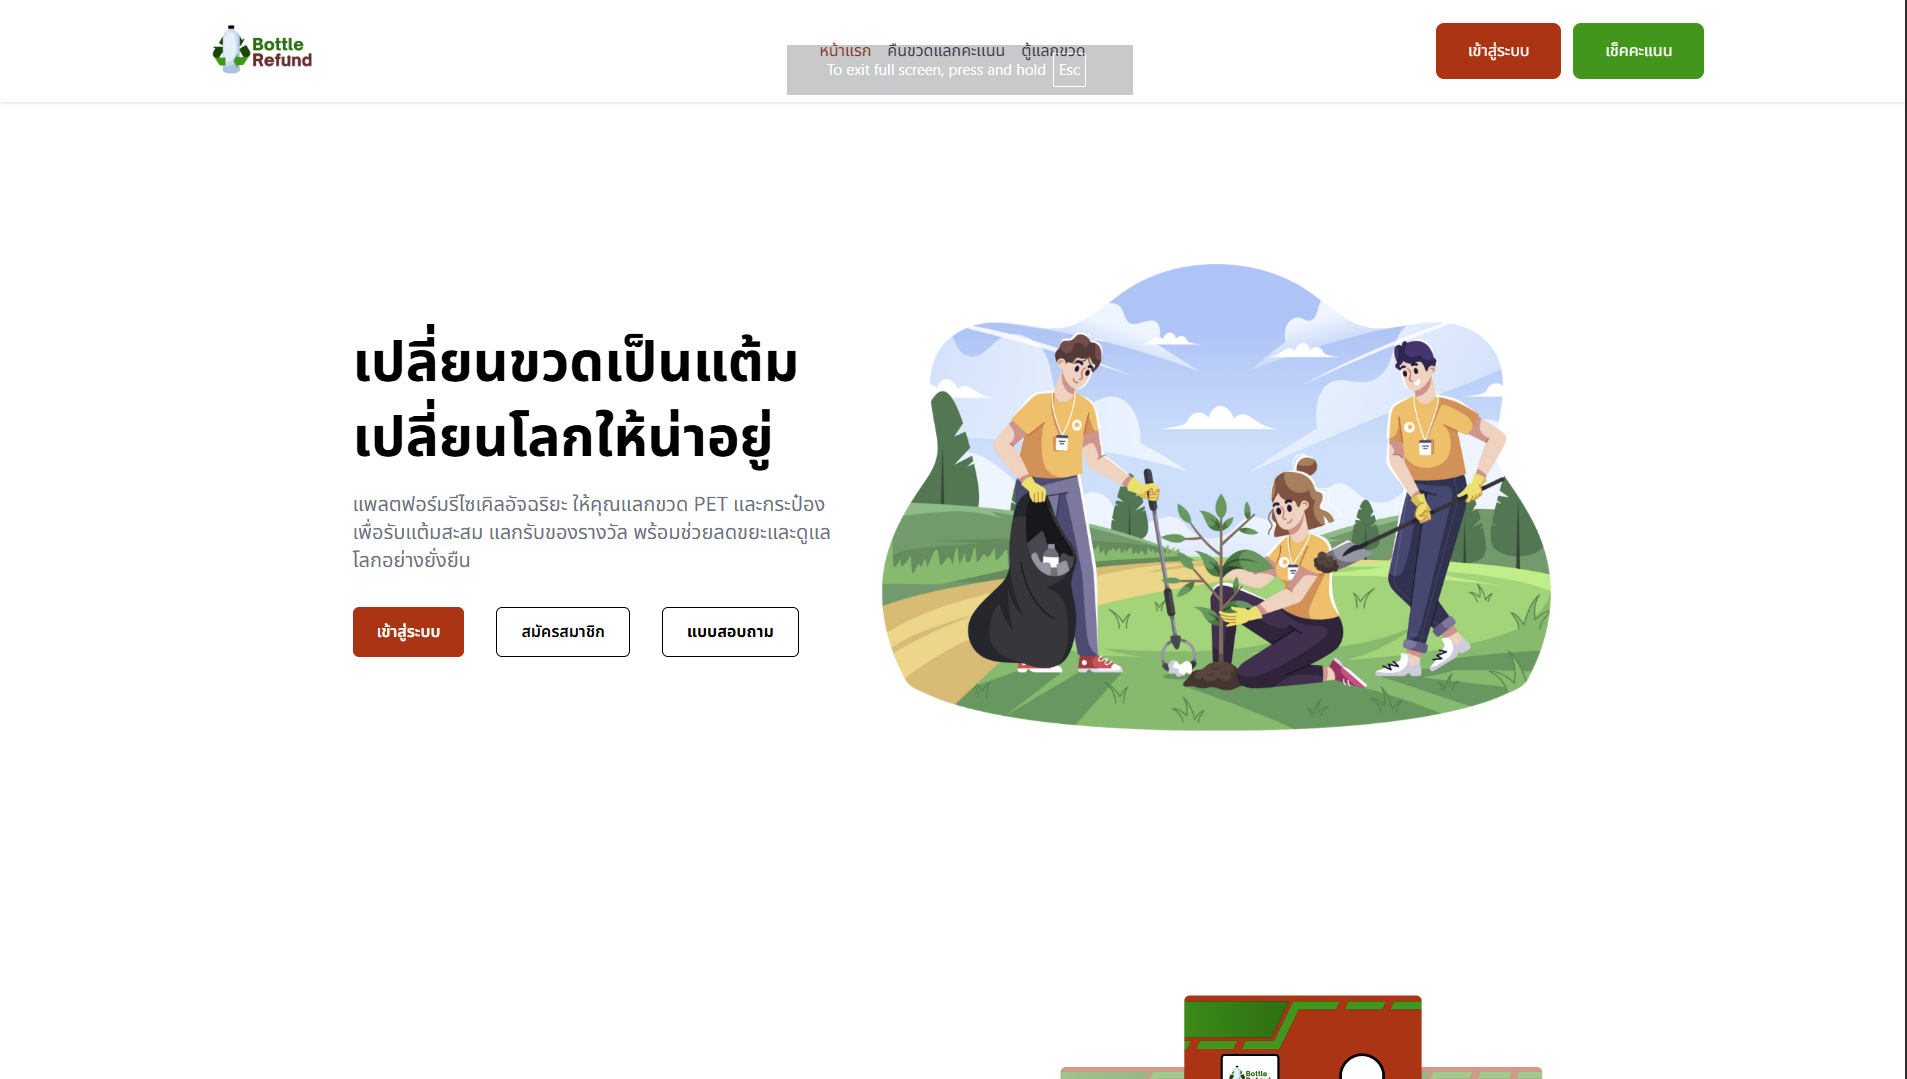
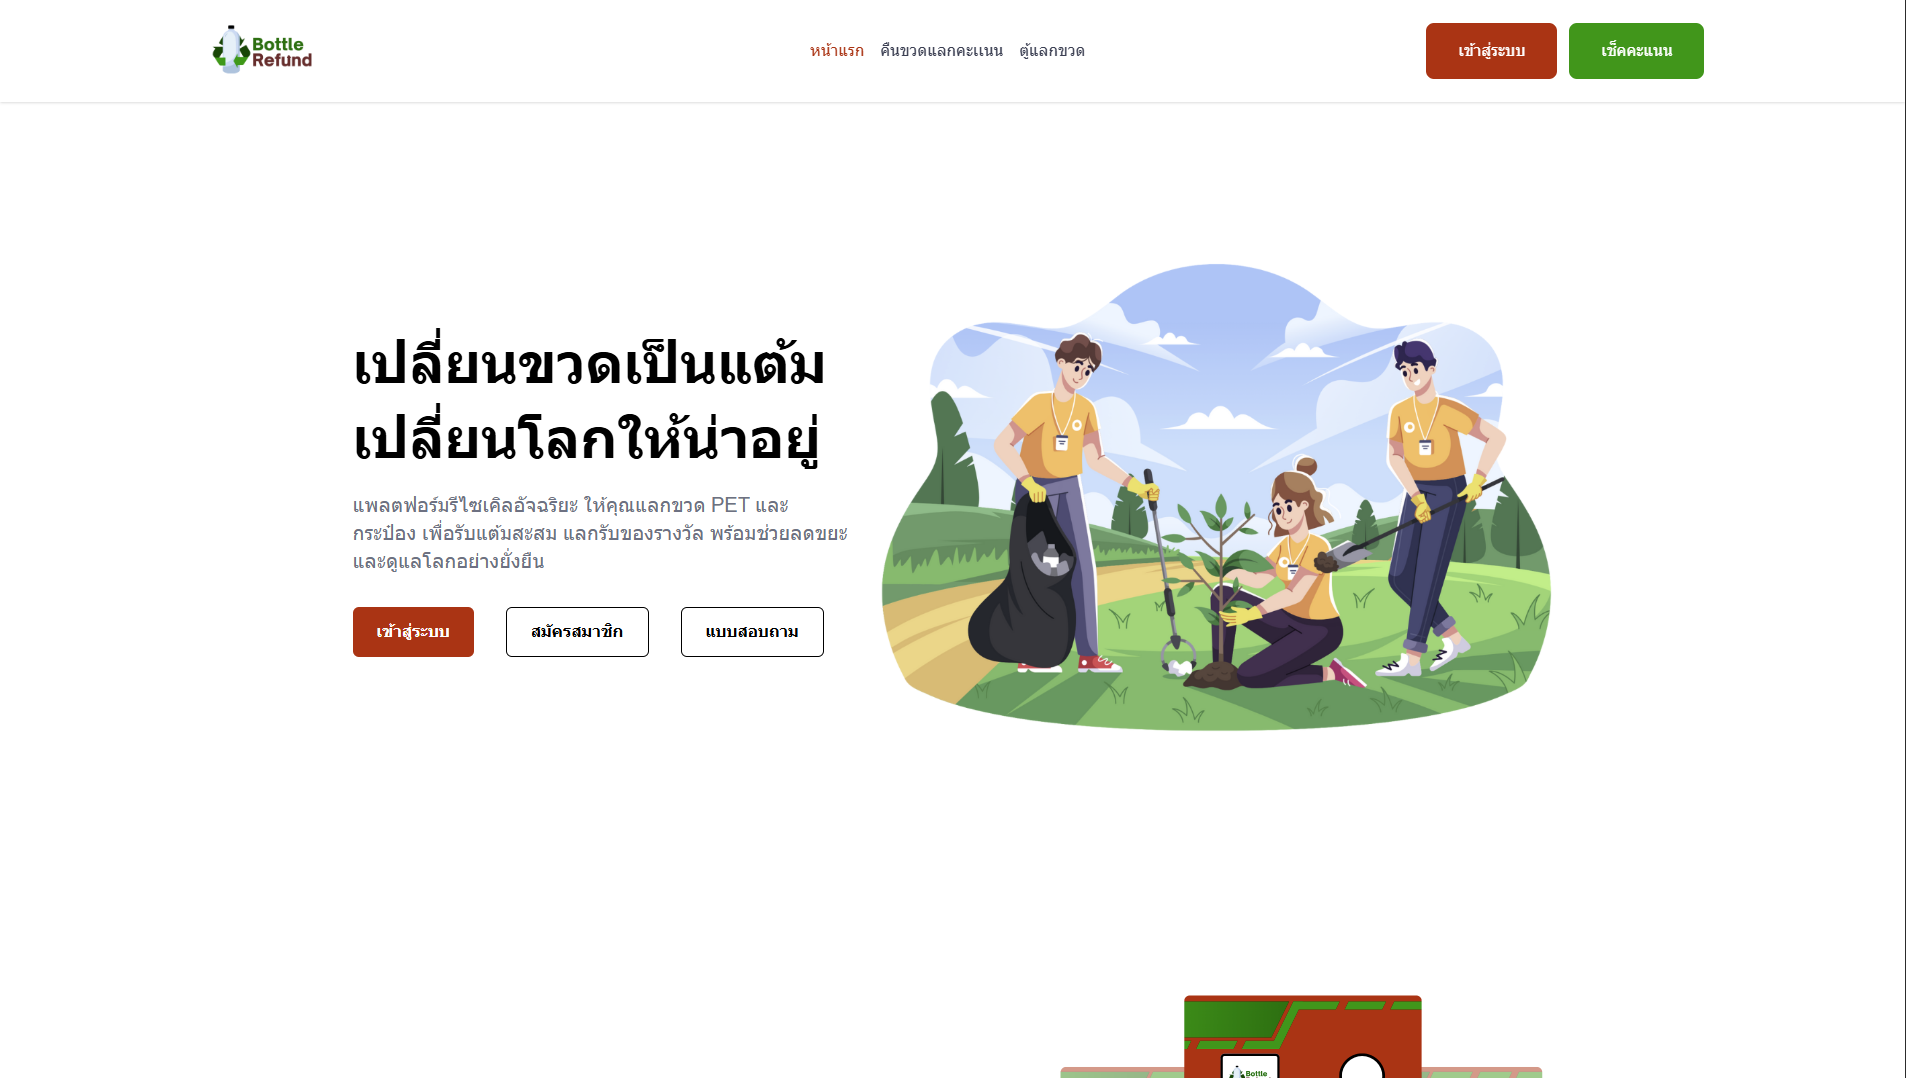
update project web-adda

diff --git a/src/components/Myproject.tsx b/src/components/Myproject.tsx
@@ -156,6 +156,51 @@ const Myproject = () => {
               </div>
             </a>
 
+            <a href="https://web-adda.vercel.app/" target="_blank">
+              <div className="border border-neutral-500/40 bg-neutral-800/70 backdrop-blur-lg rounded-lg p-4 shadow-lg transition duration-500 transform group/card hover:border-[#0c78e5]">
+                <h1 className="text-white font-bold text-lg lg:text-xl xl:text-2xl mb-3 group-hover/card:text-[#0c78e5]/90 transition duration-300 transform">
+                  Web ADDA (Early Access)
+                </h1>
+
+                <LazyLoadImage
+                  src="/image/myproject/web-adda.png"
+                  className="w-full transition duration-300 rounded-md"
+                  effect="blur"
+                  alt="web-adda"
+                />
+                <div className="flex items-center gap-2 transition duration-300 mt-4">
+                  <div className="relative bg-neutral-700 rounded-full p-1 group/icon">
+                    <img
+                      src="/image/logos/vue.svg"
+                      loading="lazy"
+                      className="w-8 h-8 sm:w-10 sm:h-10 p-1"
+                      alt="logo"
+                    />
+
+                    <div className="absolute top-[-40px] -translate-x-2 bg-white text-black text-sm px-3 py-1 rounded-md opacity-0 group-hover/icon:opacity-100 transition duration-300 whitespace-nowrap border">
+                      Vue
+                      <div className="absolute left-1/2 -bottom-1 -translate-x-1/2 w-2 h-2 bg-white rotate-45  border-b">
+                      </div>
+                    </div>
+                  </div>
+                  <div className="relative bg-neutral-700 rounded-full p-1 group/icon">
+                    <img
+                      src="/image/logos/tailwindcss.svg"
+                      loading="lazy"
+                      className="w-8 h-8 sm:w-10 sm:h-10 p-1"
+                      alt="logo"
+                    />
+
+                    <div className="absolute top-[-40px] -translate-x-8 bg-white text-black text-sm px-3 py-1 rounded-md opacity-0 group-hover/icon:opacity-100 transition duration-300 whitespace-nowrap border">
+                      Tailwind CSS
+                      <div className="absolute left-1/2 -bottom-1 -translate-x-1/2 w-2 h-2 bg-white rotate-45  border-b">
+                      </div>
+                    </div>
+                  </div>
+                </div>
+              </div>
+            </a>
+
             {/* <a href="http://jirasak.duckdns.org:8087/" target="_blank">
               <div className="border border-neutral-500/40 bg-neutral-800/70 backdrop-blur-lg rounded-lg p-4 shadow-lg transition duration-500 transform group hover:border-[#0c78e5]">
                 <h1 className="text-white font-bold text-lg lg:text-xl xl:text-2xl mb-3 group-hover:text-[#0c78e5]/90 transition duration-300 transform">

diff --git a/src/components/SkillsTools.tsx b/src/components/SkillsTools.tsx
@@ -4,12 +4,12 @@ const SkillsTools = () => {
   const frontandback = [
     {
       src: "/image/logos/react_dark.svg",
-      alt: "react",
+      alt: "React",
       href: "https://reactjs.org",
     },
     {
       src: "/image/logos/nuxt.svg",
-      alt: "react",
+      alt: "Nuxt",
       href: "https://reactjs.org",
     },
     {
@@ -24,7 +24,7 @@ const SkillsTools = () => {
     },
     {
       src: "/image/logos/expressjs_dark.svg",
-      alt: "express",
+      alt: "Express",
       href: "https://expressjs.com/",
     },
     {
